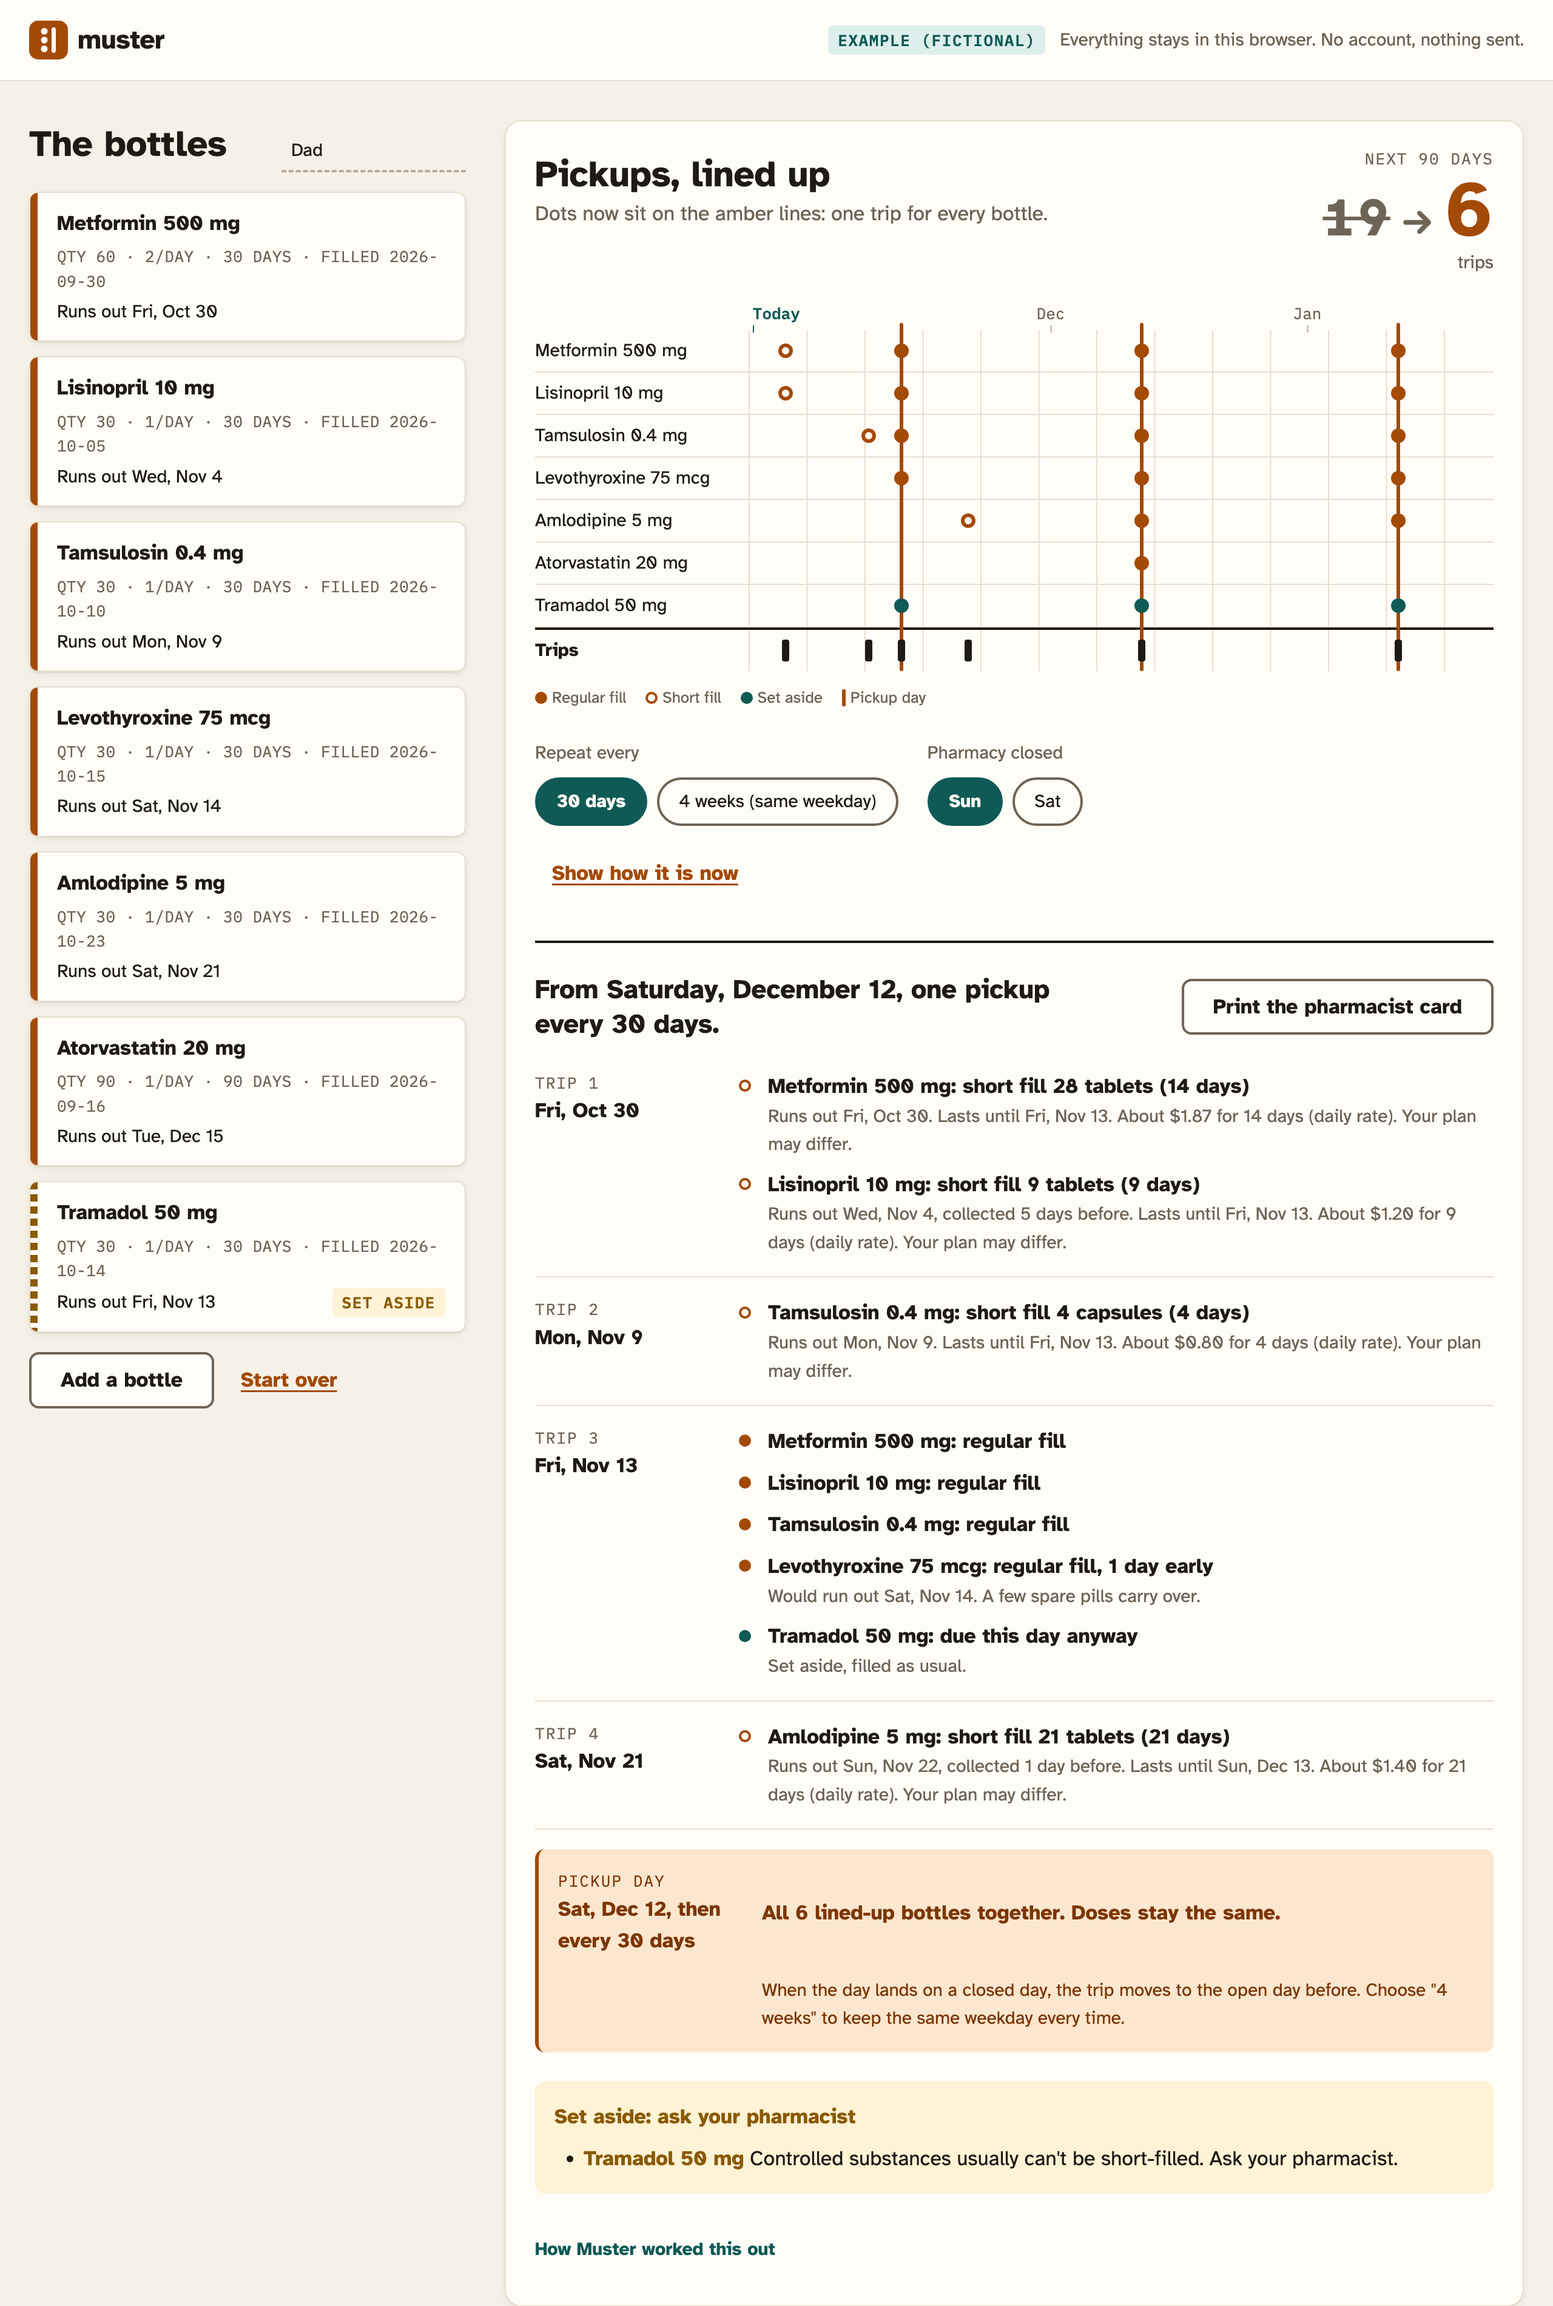
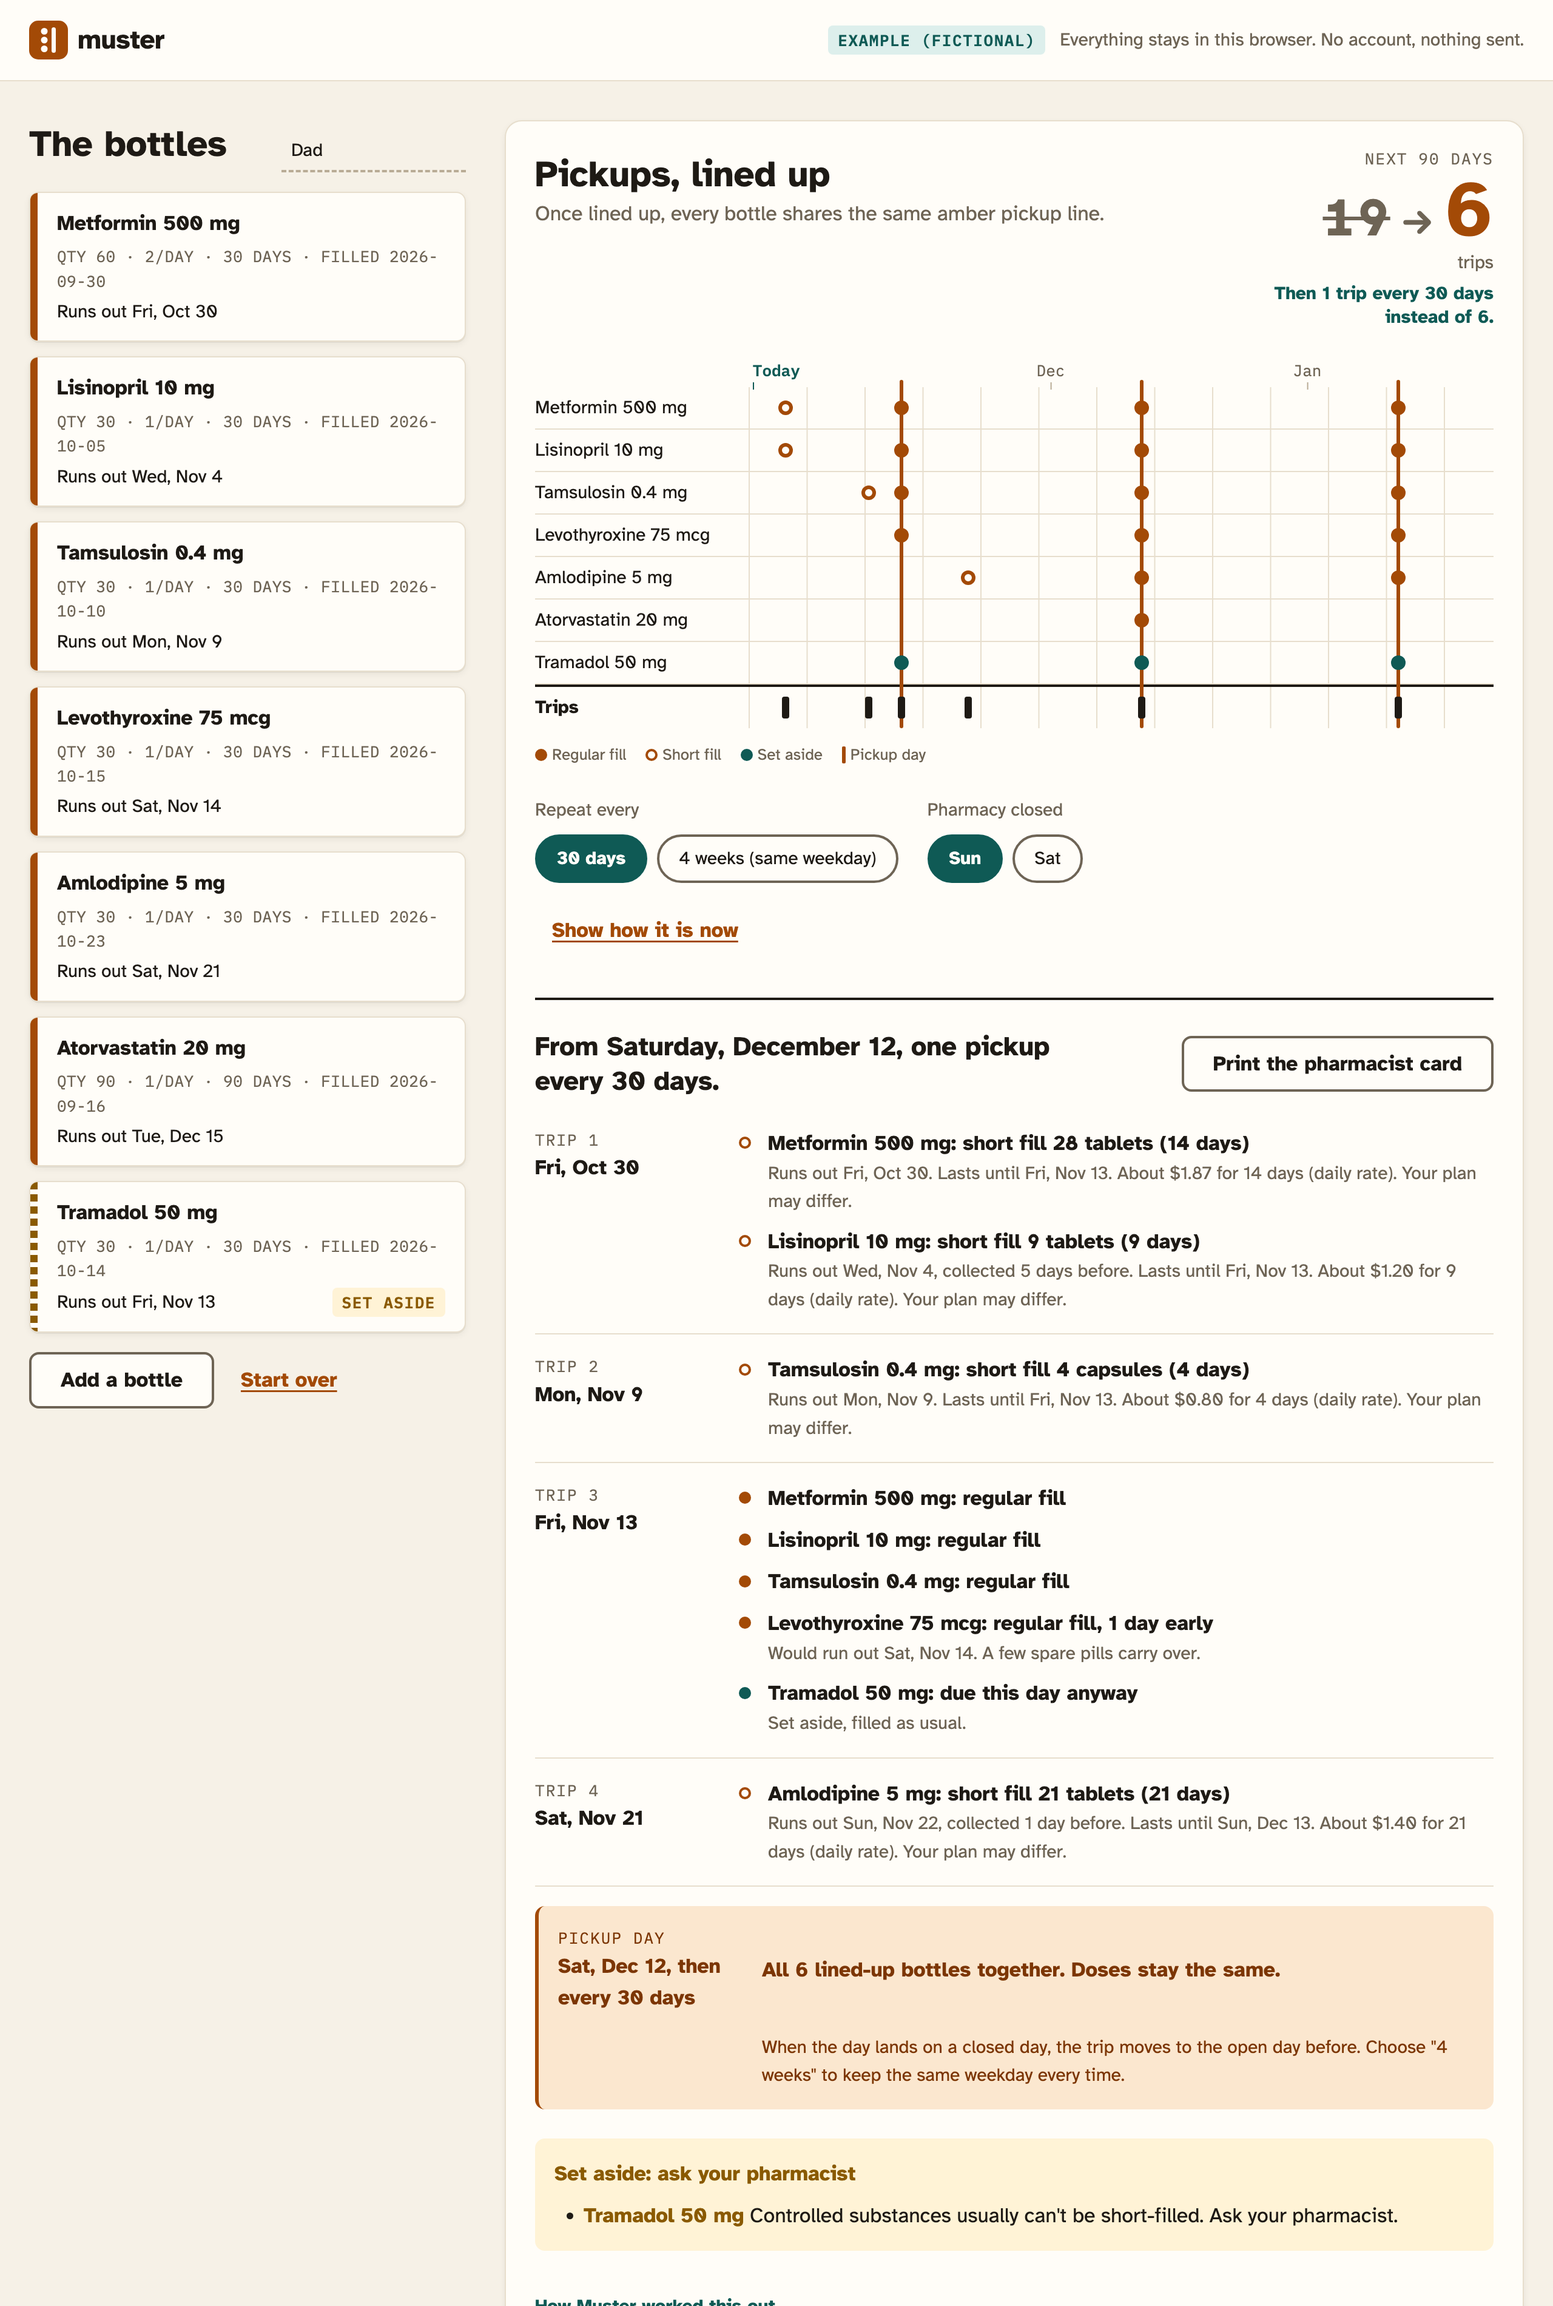
Judging-panel fixes: steady-state monthly benefit, insight line, clearer empty state

diff --git a/public/app.html b/public/app.html
@@ -30,14 +30,15 @@
         <h1 id="bottles-h">The bottles</h1>
         <label class="whose">
           <span class="visually-hidden">Whose bottles are these?</span>
-          <input id="whose" type="text" maxlength="40" placeholder="Whose? e.g. Dad" autocomplete="off">
+          <input id="whose" type="text" maxlength="40" placeholder="For: e.g. Dad" autocomplete="off">
         </label>
       </div>
       <ol id="bottle-list" class="bottle-list" aria-live="polite"></ol>
 
       <div id="empty" class="empty" hidden>
         <div class="empty-mark" aria-hidden="true"><span></span><span></span><span></span></div>
-        <p>No bottles yet. Add the first one from the counter, or load the example to see how it works.</p>
+        <p><strong>Muster puts every prescription on one pickup day.</strong> Copy each bottle's label, press Line them up, and get the short fills to ask your pharmacist for.</p>
+        <p class="muted">No bottles yet. Add the first one from the counter, or load the example to see how it works.</p>
         <div class="row">
           <button class="btn btn-primary" type="button" data-action="add">Add a bottle</button>
           <button class="btn btn-secondary" type="button" data-action="example">Load example household</button>
@@ -61,6 +62,7 @@
           <span class="trip-label mono">Next 90 days</span>
           <span class="trip-nums"><span id="trips-before" class="trip-before">0</span><span class="trip-arrow" id="trip-arrow" aria-hidden="true">→</span><span id="trips-after" class="trip-after"></span></span>
           <span class="trip-unit" id="trip-unit">trips</span>
+          <span class="trip-month" id="trip-month" hidden></span>
         </div>
       </div>
 

diff --git a/public/index.html b/public/index.html
@@ -49,10 +49,13 @@
     <section class="lp-sec lp-problem" aria-labelledby="problem-h">
       <h2 id="problem-h">A typical month</h2>
       <div class="lp-problem-grid">
+        <div>
+        <p class="lp-story-note mono muted">A made-up but typical example</p>
         <p class="lp-story">Saturday night. Dad says he's on his last metformin. You picked up his lisinopril on Tuesday and his thyroid pills the week before. The tamsulosin is due Monday. Every bottle was filled on a different day, so every bottle runs out on a different day. Next month it happens again.</p>
+        </div>
         <div class="lp-insight">
           <p class="lp-insight-big">Running out isn't a memory problem. It's calendar arithmetic.</p>
-          <p>Reminders tell you when the next bottle runs out. They can't make the bottles run out together. Pharmacies already can: it's called <strong>medication synchronization</strong>, one-time short fills that move every prescription onto one day. You just have to ask, and asking is a lot easier with the numbers in hand.</p>
+          <p>Reminders tell you when the next bottle runs out. They can't make the bottles run out together. Many pharmacies already can: it's called <strong>medication synchronization</strong>, one-time short fills that move every prescription onto one day. You just have to ask, and asking is a lot easier with the numbers in hand.</p>
         </div>
       </div>
     </section>

diff --git a/public/js/app.js b/public/js/app.js
@@ -151,7 +151,9 @@ function renderCounter(animate) {
   $('#trip-arrow').hidden = !showAfter;
   $('#trips-after').hidden = !showAfter;
   $('#trip-unit').textContent = before === 1 && !showAfter ? 'trip' : 'trips';
+  $('#trip-month').hidden = !showAfter;
   if (!showAfter) return;
+  $('#trip-month').textContent = `Then ${plural(plan.monthAfter, 'trip')} every ${state.settings.cycle} days instead of ${plan.monthBefore}.`;
   const target = plan.after.length;
   if (!animate || reduceMotion) { $('#trips-after').textContent = target; return; }
   const from = before;
@@ -344,8 +346,8 @@ function update({ animate = false } = {}) {
   renderResult();
   $('#plan-title').textContent = view === 'after' ? 'Pickups, lined up' : 'Pickups, as they are now';
   $('#plan-sub').textContent = view === 'after'
-    ? 'Dots now sit on the amber lines: one trip for every bottle.'
-    : 'Each dot is a trip to the pharmacy for one bottle.';
+    ? 'Once lined up, every bottle shares the same amber pickup line.'
+    : 'Each dot is a trip for one bottle. Reminders can\'t fix this: the bottles were filled on different days, so they run out on different days.';
 }
 
 document.addEventListener('click', (ev) => {

diff --git a/public/js/muster.js b/public/js/muster.js
@@ -187,8 +187,17 @@ export function planSync(meds, opts = {}) {
     };
   });
 
+  // The lasting difference: trips in one cycle as things are now, and one cycle once lined up.
+  const inCycle = (start, days) => days.filter((d) => d >= start && d < start + cycle).length;
+  const steadyAfter = unique([
+    ...best.steps.flatMap((s) => pickupsAfter(s, s.med, today, syncTrip - today + cycle * 2).map(shift)),
+    ...setAside.flatMap((s) => pickupsAsIs(s.med, today, syncTrip - today + cycle * 2).map(shift)),
+  ]);
+
   return {
     ok: true,
+    monthBefore: inCycle(today, before),
+    monthAfter: inCycle(syncTrip, steadyAfter),
     today, cycle, horizon, closed,
     anchor: best.anchor,
     syncDay,

diff --git a/public/css/landing.css b/public/css/landing.css
@@ -46,6 +46,8 @@
 
 .lp-problem-grid { display: grid; grid-template-columns: minmax(0, 1fr) minmax(0, 1fr); gap: var(--s-6); align-items: start; }
 .lp-story { font-size: var(--fs-lg); max-width: 40ch; }
+.lp-story-note { font-size: var(--fs-xs); text-transform: uppercase; letter-spacing: 0.08em; margin-bottom: var(--s-2); }
+.lp-problem-grid > div:first-child { display: grid; }
 .lp-insight { display: grid; gap: var(--s-4); background: var(--surface); padding: var(--s-5); border-radius: var(--r-lg); border: 1px solid var(--rule); box-shadow: var(--shadow-label); }
 .lp-insight-big { font-size: var(--fs-xl); font-weight: var(--fw-bold); line-height: var(--lh-snug); color: var(--c-ink); }
 

diff --git a/public/css/app.css b/public/css/app.css
@@ -78,6 +78,7 @@
 .trip-after { color: var(--c-amber); }
 .trip-arrow { color: var(--text-muted); font-size: var(--fs-xl); }
 .trip-unit { font-size: var(--fs-sm); color: var(--text-muted); }
+.trip-month { margin-top: var(--s-2); font-size: var(--fs-sm); font-weight: var(--fw-bold); color: var(--c-ink); line-height: var(--lh-snug); max-width: 20ch; text-align: right; }
 .trip-nums:has(.trip-arrow:not([hidden])) .trip-before { color: var(--text-muted); text-decoration: line-through; text-decoration-thickness: 3px; font-size: var(--fs-2xl); }
 
 /* timeline */

diff --git a/PROGRESS.md b/PROGRESS.md
@@ -11,3 +11,14 @@ Deadline: Oct 26, 2026 10:00 PM CDT (= 11:00 PM EDT; machine clock is EDT).
 | Mon Oct 26 05:36 | 4 | STAFF ENGINEER + INTERFACE CRAFTSPERSON | M1 solver+tests, M2 planner end to end. Example: 19 → 6 trips in 90 days. |
 | Mon Oct 26 05:40 | 4 | LANDING PAGE DESIGNER → PRODUCER | Brand board, landing, social card, screenshots. **Feature freeze**: golden path + landing work. Stretch goals (what-if day click, .ics, label photo reading) cut. |
 | Mon Oct 26 05:40 | 5 | THE BREAKER | QA start |
+| Mon Oct 26 05:44 | 5 | THE BREAKER | golden path 3x + 12 edge checks: 48/48 pass; clean clone OK; print = 1 page; secrets scan clean. Fixed: /brand routing collision, vacuous test, closed-day trips, early-count, mobile density. |
+| Mon Oct 26 05:44 | 5 | THE SLOP AUDITOR | audit start |
+| Mon Oct 26 05:46 | 5 | THE SLOP AUDITOR | Banned words: none (only "journey" as a we-don't-say example). No decorative gradients, glass, emoji, testimonials, metrics. Fixed: "Pharmacies already can" → "Many pharmacies"; labelled the landing story as a made-up example; corrected the after-state subtitle. |
+| Mon Oct 26 05:46 | 5 | THE JUDGING PANEL | Before: Creativity 4, Impact 3, Technical 4, Design/UX 4. Lowest = Impact (benefit shown only as a 90-day total mixing in one-off transition trips). Fix: computed steady-state line "Then 1 trip every 30 days instead of 6" + insight line in before-state + clearer empty state. After: Creativity 4, Impact 4, Technical 4, Design/UX 4. Remaining biggest gap for all four: no validation with real caregivers/pharmacists. |
+
+## Challenges and lessons (for the submission)
+- **30-day cycles drift across weekdays.** The first version picked a sync day on an open weekday but the *next* sync landed on a Sunday. Fixed by moving every trip (before and after, so the comparison stays fair) to the nearest open day before it, and offering a 28-day cycle that keeps the weekday fixed.
+- **Naive short fills don't save trips during the transition.** Each bottle's bridge fill was its own trip. Treating each short fill as an interval (it can be collected up to a fifth of its supply early, never after it runs out) and stabbing intervals greedily merged them.
+- **A bottle due two days after the sync day** shouldn't need a 28-day short fill; refilling it a couple of days early on the sync day is what pharmacies do. Added that rule.
+- **A test that passed for the wrong reason.** The brand-board contrast check passed while /brand was serving the 404 page (a folder named brand/ shadowed brand.html). Tightened the test to count passing rows, and fixed routing so pages beat folders.
+- **Headless Chrome can't emulate a phone width via --window-size**, so the mobile screenshot came from the in-app browser's device emulation instead.

diff --git a/IDEAS.md b/IDEAS.md
@@ -26,7 +26,7 @@
 
 ### Insights ("Most people assume X, but actually Y")
 - A1 ✅ **Most people assume running out of medication is a *remembering* problem (so they set reminders), but actually it's a *calendar arithmetic* problem: prescriptions that started on different days stay out of phase forever, and no reminder ever fixes that.**
-- A2 ✅ **Most people assume pickups have to stay scattered, but actually most pharmacies already offer "medication synchronization" (one pickup day a month via one-time short fills) — the patient just has to ask, and arriving with the numbers makes it a two-minute conversation.** (Sources: APhA Appointment-Based Model page; McKesson "Med Sync 101".)
+- A2 ✅ **Most people assume pickups have to stay scattered, but actually many pharmacies already offer "medication synchronization" (one pickup day a month via one-time short fills) — the patient just has to ask, and arriving with the numbers makes it a two-minute conversation.** (Sources: APhA Appointment-Based Model page; McKesson "Med Sync 101".)
 - A3 ✅ Most people assume a short fill costs a full copay, but actually Medicare Part D plans must apply a *daily* cost-sharing rate to solid oral doses dispensed for less than a month (42 CFR 423.153(b)(4)), and several states require the same for synchronization (e.g. NY Insurance Law §3224-d).
 - B1 ✅ Most people assume any job stops the OPT unemployment clock, but actually work under 20 hours/week does not.
 - B2 ❌ (cut: not surprising) Most assume the clock resets with a new job — most students already know it's aggregate.
